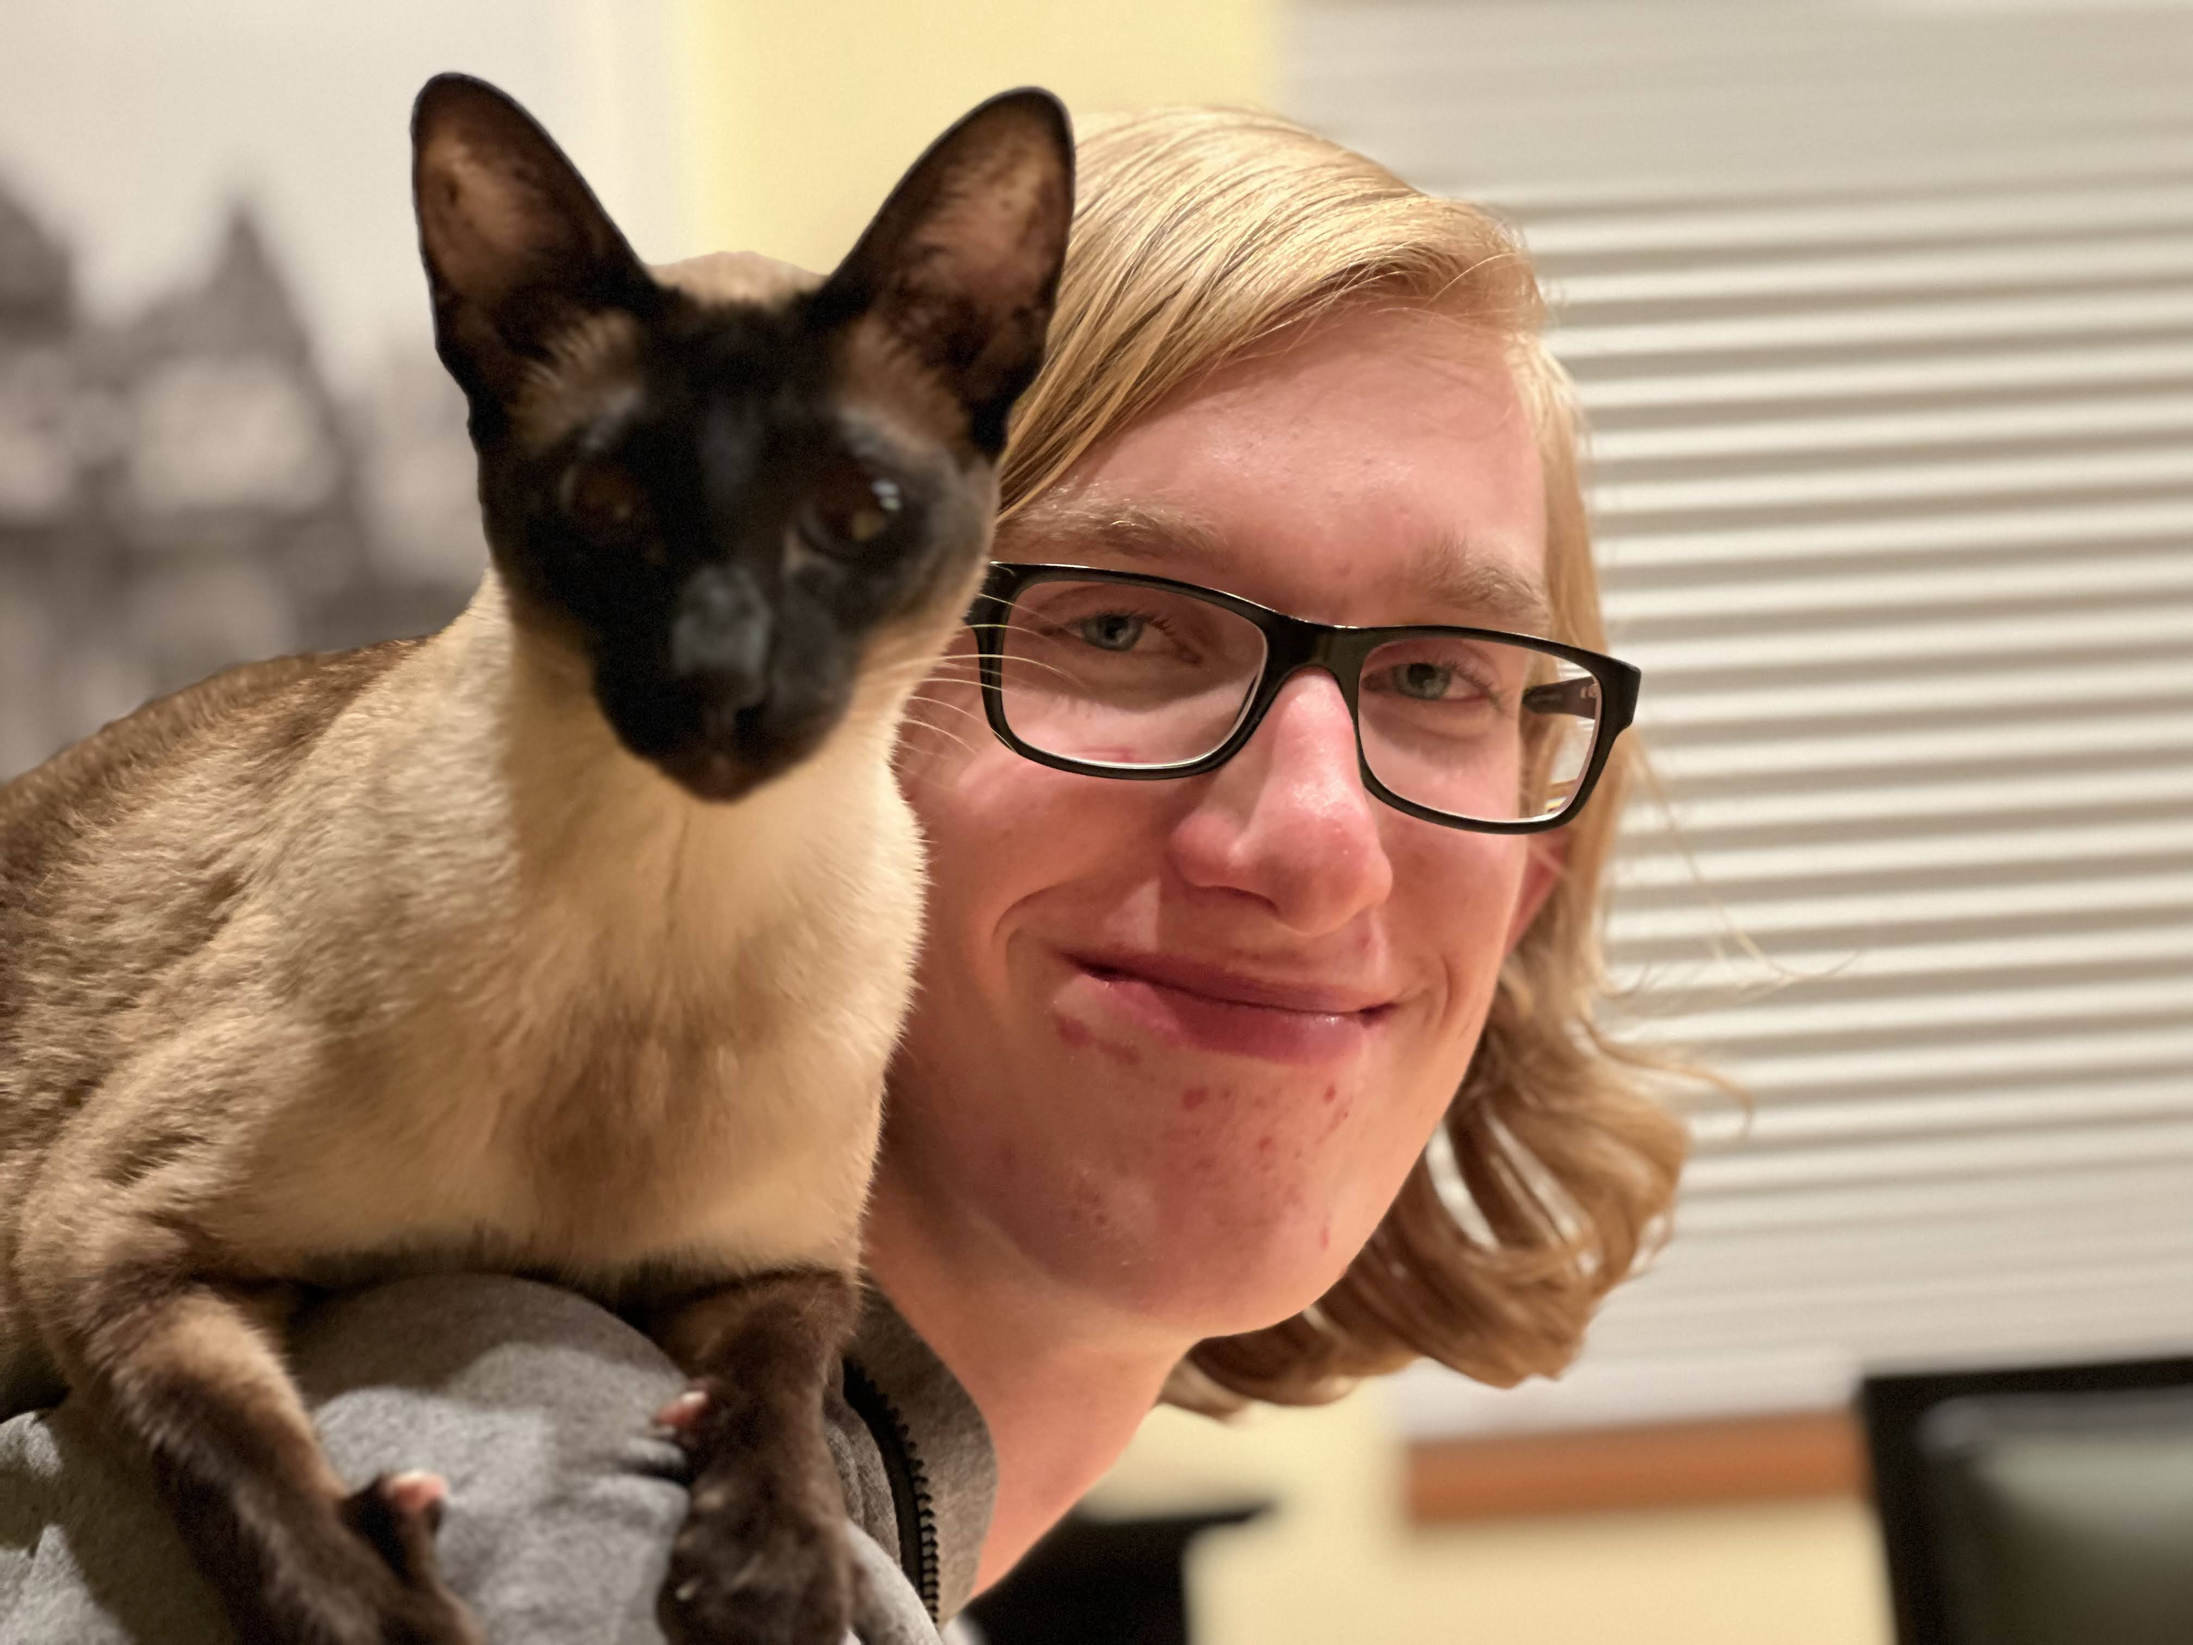
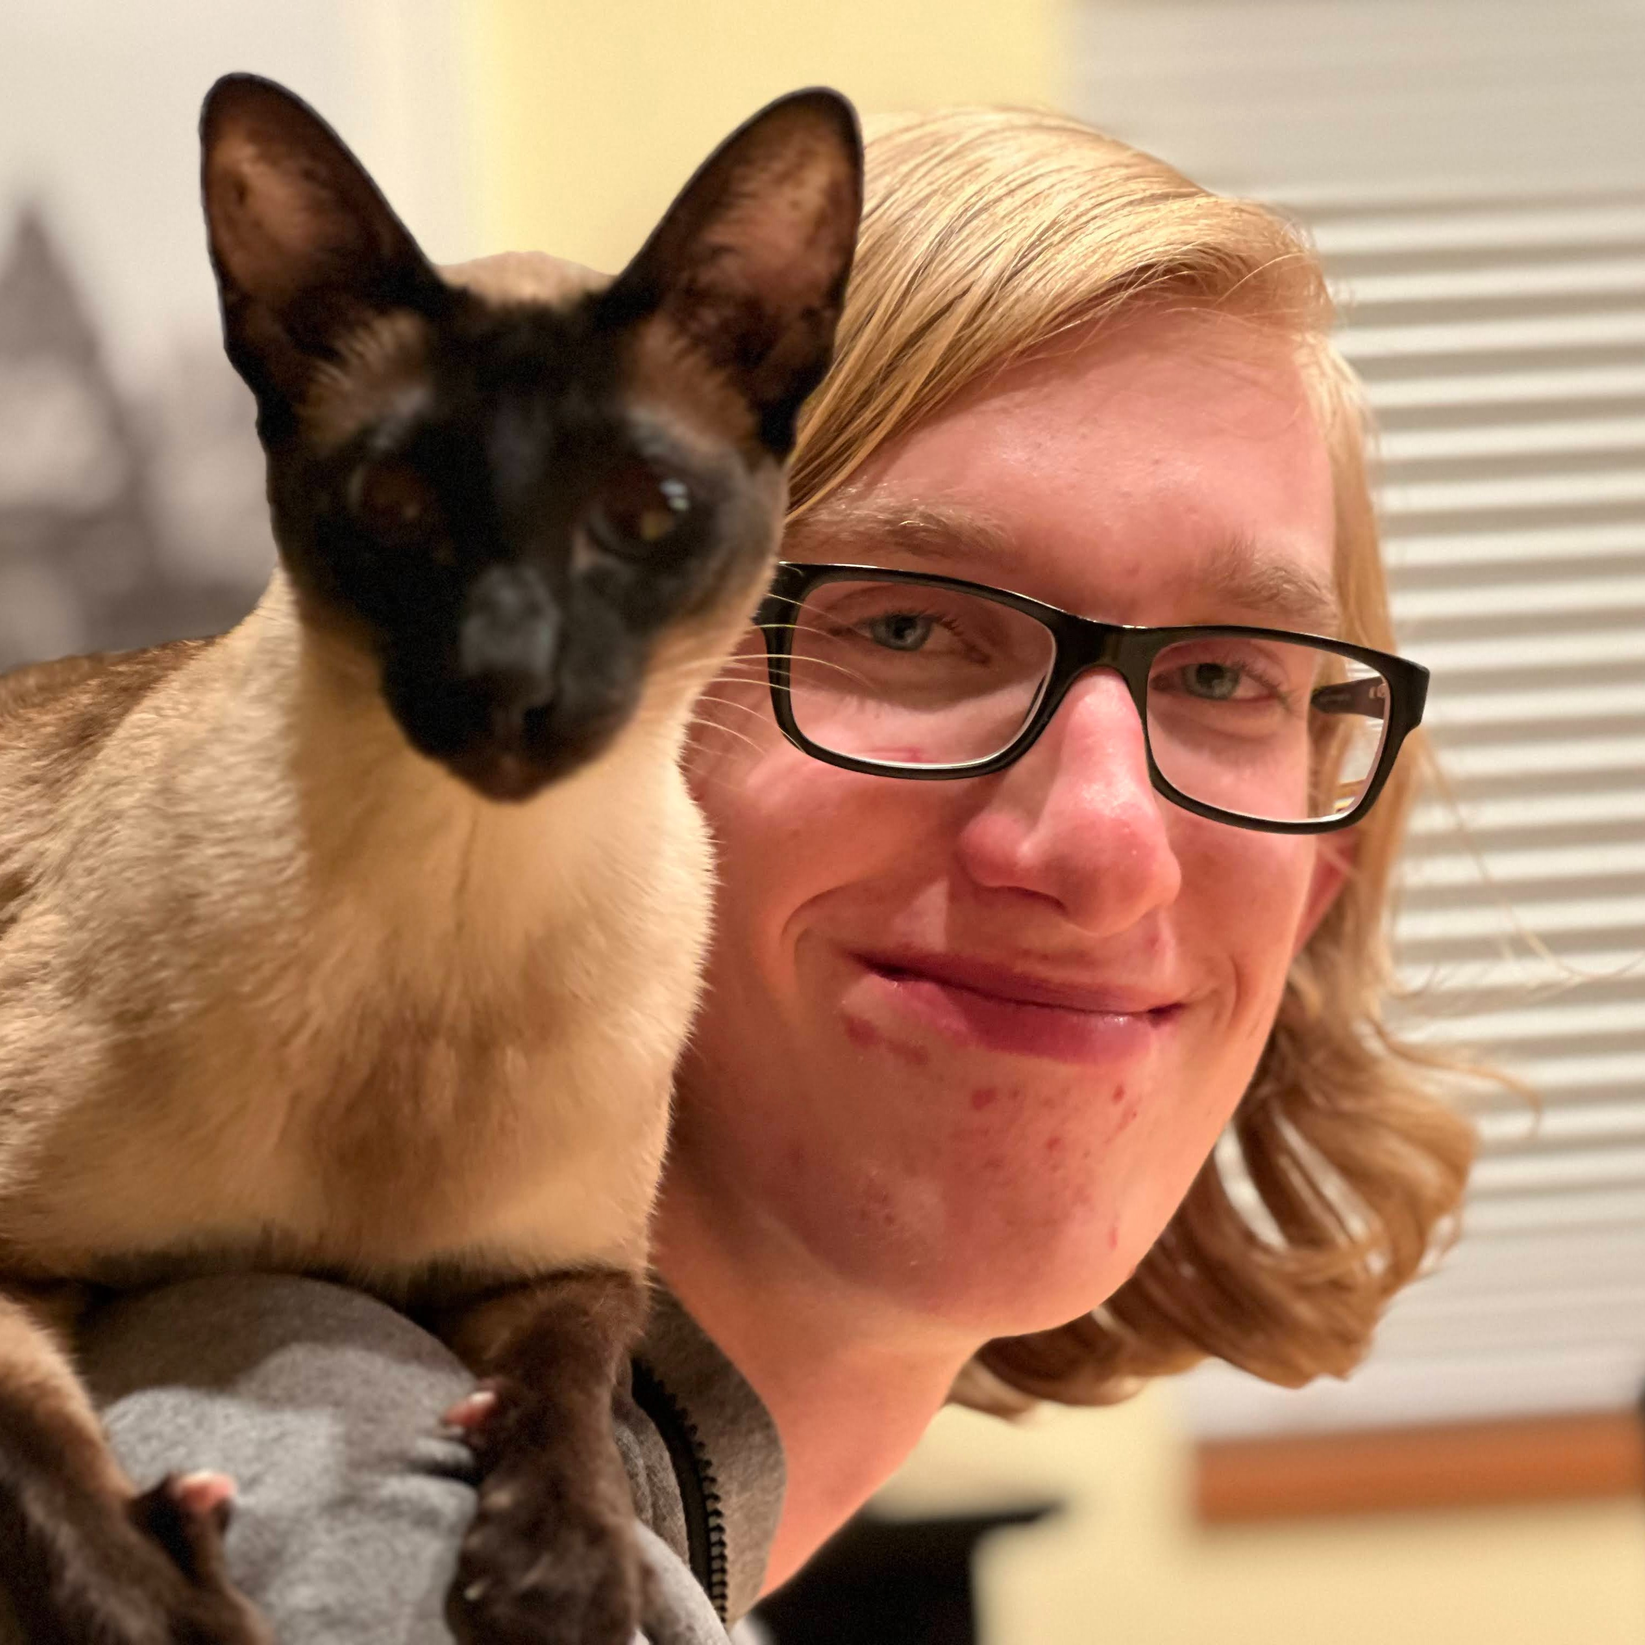
improved, still scuffed

diff --git a/aboutMe.html b/aboutMe.html
@@ -62,11 +62,12 @@
             <div class="container">
                 <h1 class="centered-text">Roman Garms: About Me</h1>
                 <br>
-                <div class="box" style="height: 400px;">
-                    <img id="about-me" src="images/PFP Shoulder Cat.jpg" width="100%" />
-
+                <div class="box" id="about-me-tiles-1">
+                    <div id="about-me-container">
+                        <img id="about-me-img" src="images/PFP Shoulder Cat.jpg" />
+                    </div>
                 </div>
-                <div class="box" style="height: 400px;">
+                <div class="box" id="about-me-tiles-1">
                     <h4>Who I Am</h4>
                     <p> My name is Roman Garms, a Computer Science major going to University of California Santa Cruz.
                         I'm
@@ -74,6 +75,14 @@
                         computers, cars, photos and videos.
                     </p>
                     <br>
+
+                </div>
+                <div class="box" id="about-me-tiles-2">
+                    <h4>Some of my favorite projects</h4>
+                    <p>I've run Doom on a drone controller, built a web app to show my Spotify status on a Raspberry pi,
+                        and built a clone of the TE OP-1's tombola for the TE OP-Z</p>
+                </div>
+                <div class="box" id="about-me-tiles-2">
                     <h4>I've been writing code with</h4>
                     <ul>
                         <li><code> Java </code></li>
@@ -82,13 +91,6 @@
                         <li><code> Javascript </code></li>
                         <li><code> C </code></li>
                     </ul>
-                </div>
-                <div class="box">
-                    <h4>Some of my favorite projects</h4>
-                    <p>I've run Doom on a drone controller, built a web app to show my Spotify status on a raspberry pi, and built a clone of the Teenage Engineering OP-1's tombola for the OP-Z</p>
-                </div>
-                <div class="box">
-
                 </div>
             </div>
         </div>

diff --git a/main.css b/main.css
@@ -88,6 +88,7 @@ p {
   align-items: center;
   justify-content: center;
   border-radius: 10px;
+  overflow: hidden;
 }
 
 .box:hover {
@@ -161,6 +162,7 @@ div .container {
 }
 
 .centered {
+  display: block;
   margin: auto;
 }
 
@@ -168,12 +170,25 @@ div .container {
   text-align: center;
 }
 
-#about-me{
-  float: left;
-  margin-right: 15px;
-  margin-bottom: 15px;
+#about-me-img {
+  width:100%;
+  height:100%;
+  object-fit:cover;
+
 }
 
-li{
+#about-me-container {
+  width: 100%;
+  height: 27vh;
+}
+
+#about-me-tiles-1{
+  height: 30vh;
+}
+#about-me-tiles-2{
+  height: 20vh;
+}
+
+li {
   color: #fff;
 }
